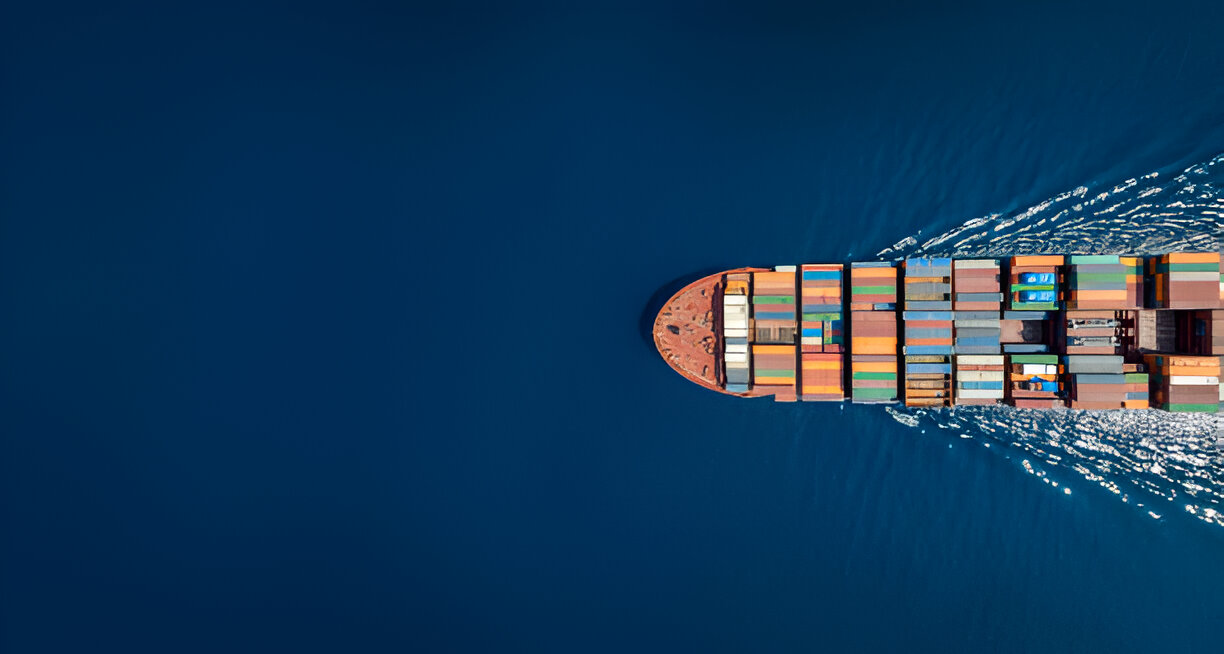
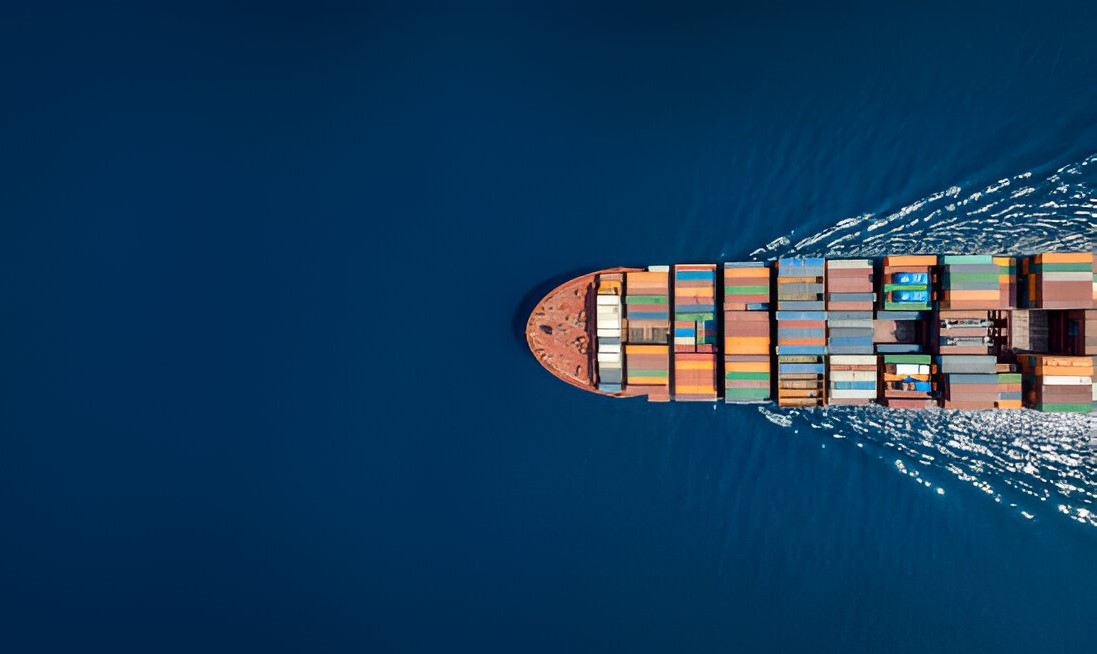
Hero con imagen vertical en móvil y horizontal en desktop

Changed region(s): [[0.4649, 0.2446, 1.0, 0.7951], [0.9918, 0.581, 1.0, 0.6116]]

diff --git a/index.html b/index.html
@@ -46,14 +46,21 @@
   <!-- Hero -->
  <main>
   <section id="home" class="hero">
-    <img class="hero-bg" src="images/fondo.jpg" alt="Logistics background">
-    <div class="overlay"></div>
-    <div class="hero-content container">
-      <h1>Connecting your business to the world</h1>
-      <p>Global freight, warehousing and end-to-end logistics solutions tailored to your needs.</p>
-      <a href="#contact" class="btn">Get a Quote</a>
-    </div>
-  </section>
+  <picture class="hero-media">
+    <!-- versión vertical para móviles -->
+    <source srcset="images/fondo2.jpg" media="(max-width: 768px)">
+    <!-- versión horizontal para escritorio -->
+    <img class="hero-bg" src="images/fondo.jpg" alt="ATH Global Logistics - portada">
+  </picture>
+
+  <div class="overlay"></div>
+
+  <div class="hero-content container">
+    <h1>Connecting your business to the world</h1>
+    <p>Global freight, warehousing and end-to-end logistics solutions tailored to your needs.</p>
+    <a href="#contact" class="btn">Get a Quote</a>
+  </div>
+</section>
 </main>
 
     <!-- About (simple, puedes editar) -->
